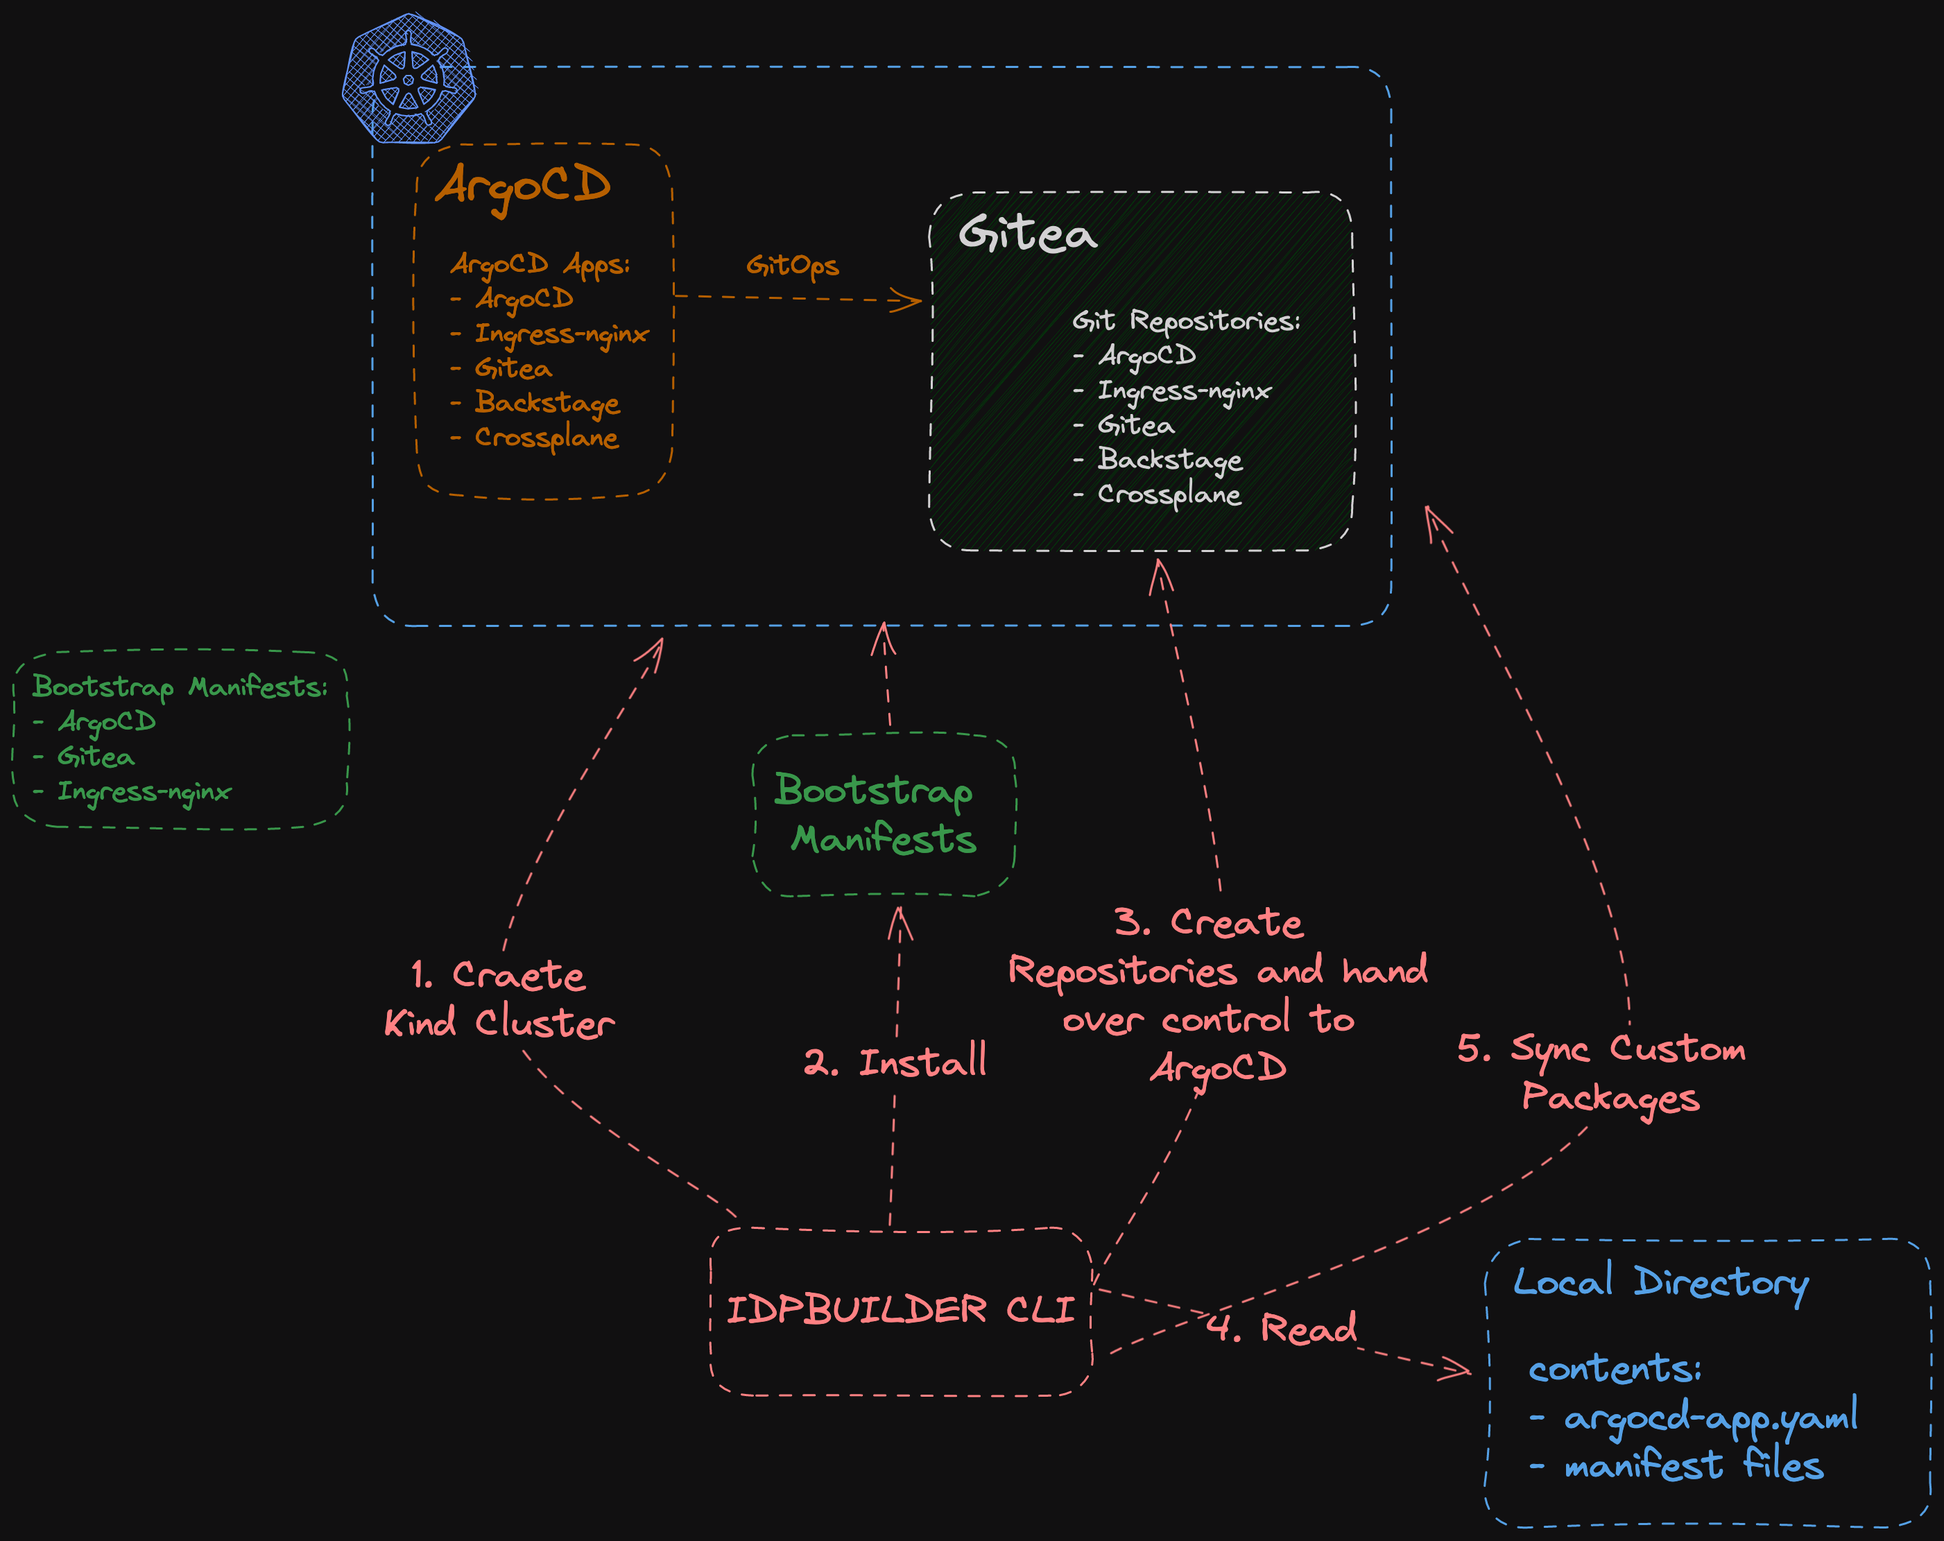
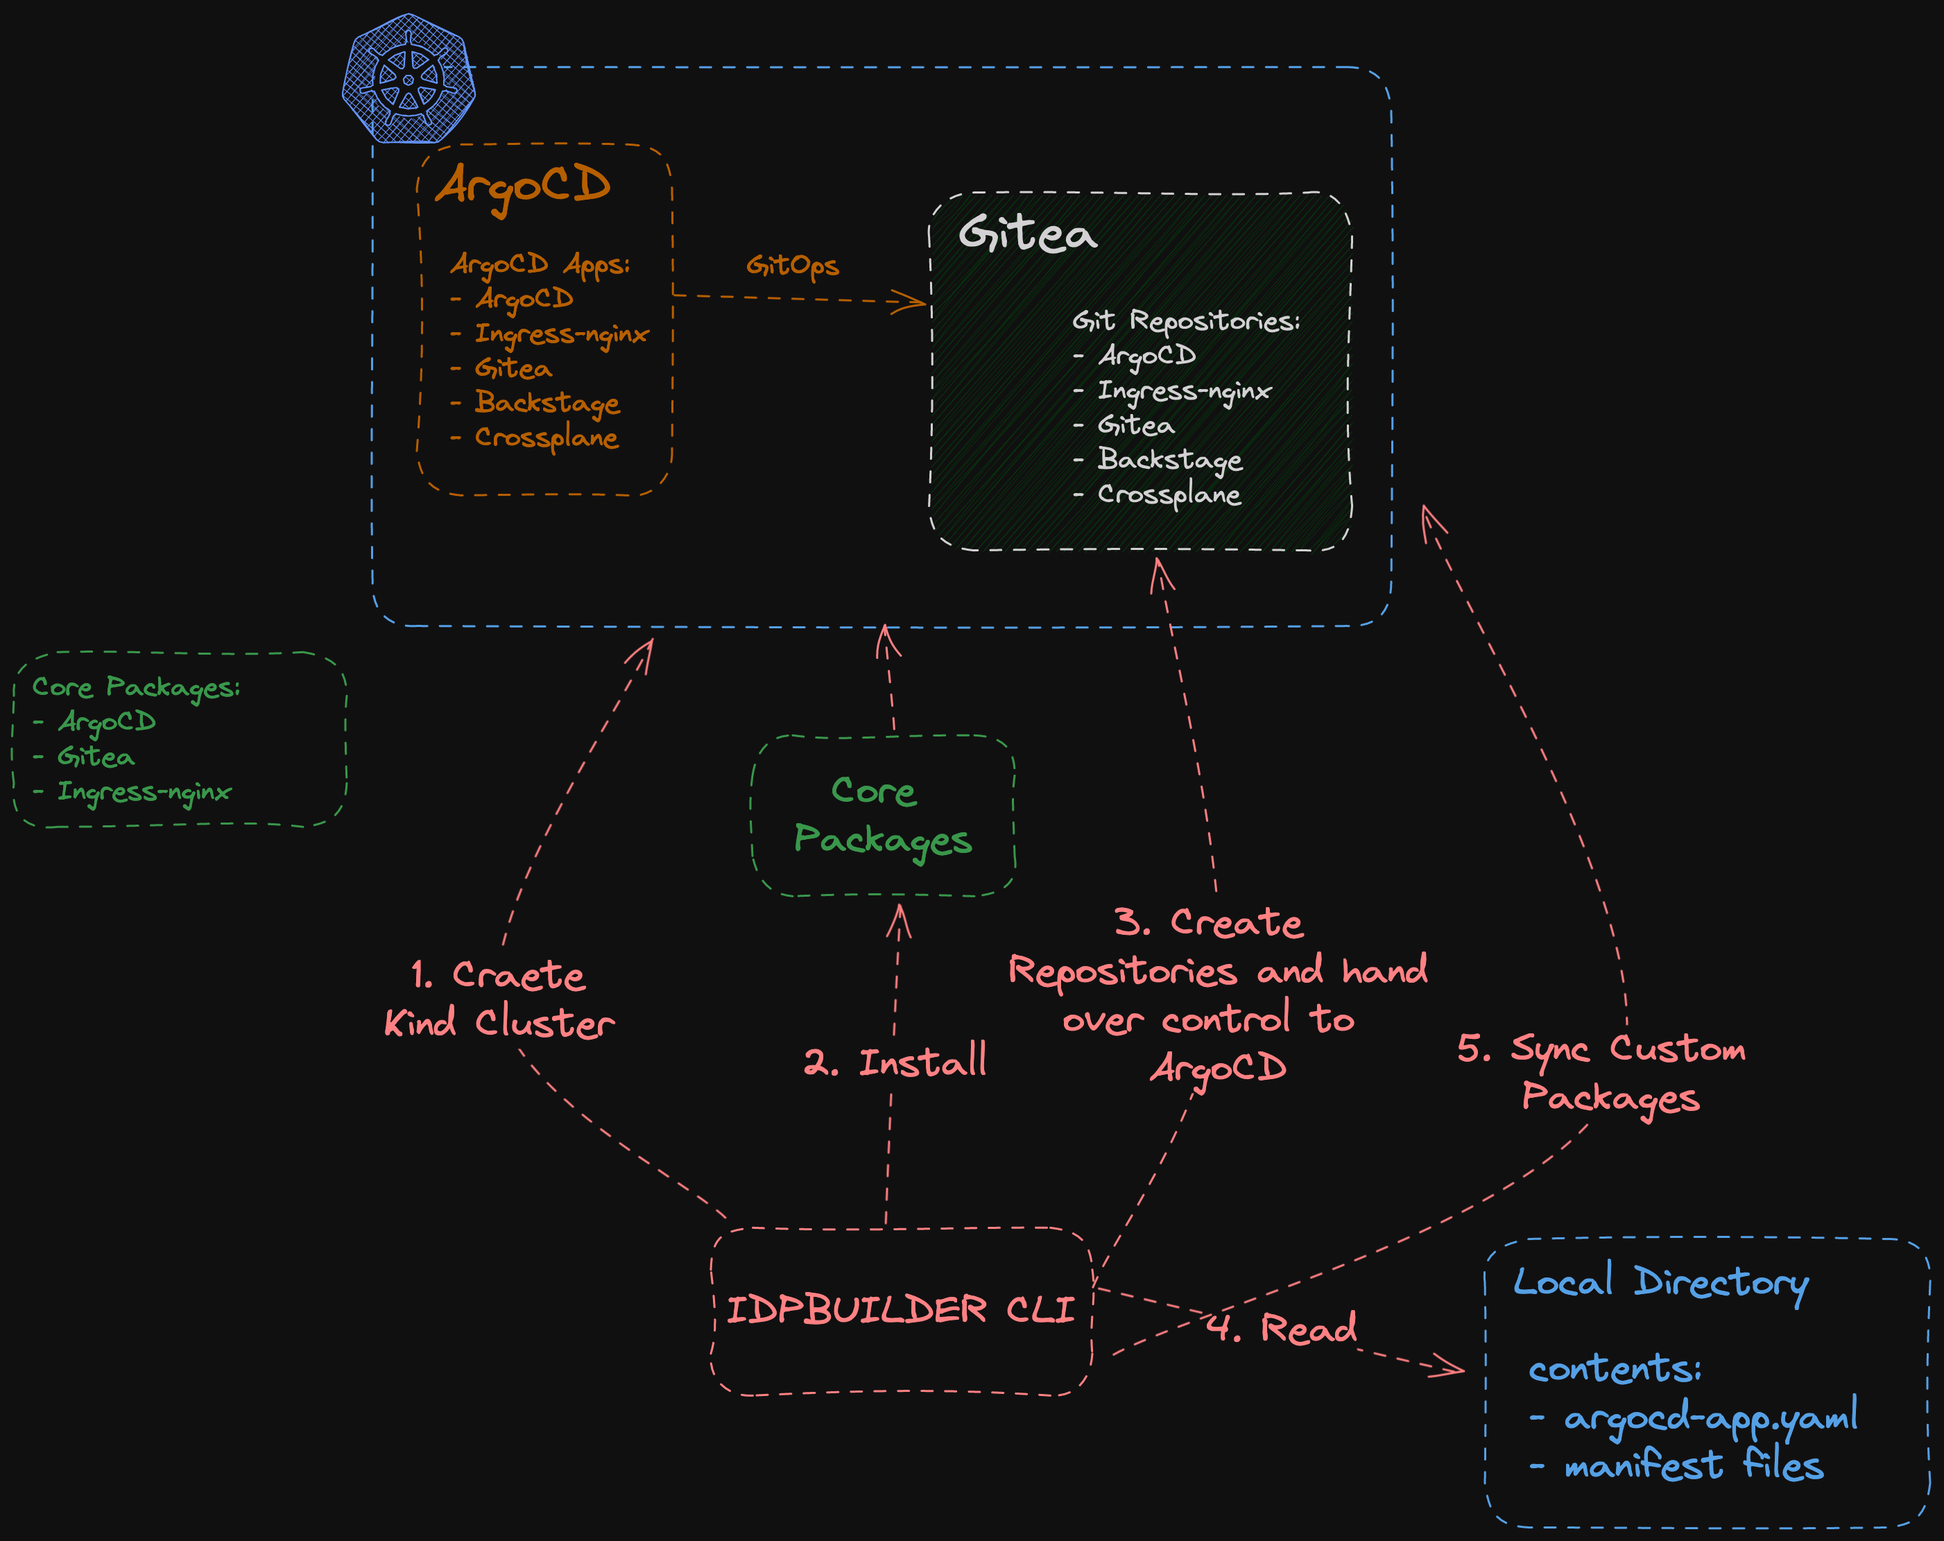
separate sections into readme and contributing

diff --git a/README.md b/README.md
@@ -7,14 +7,9 @@ Table of Contents
     * [Build](#build)
     * [Run](#run)
     * [Use](#use)
-  * [Developer notes](#developer-notes)
   * [Architecture](#architecture)
-    * [Kind cluster](#kind-cluster)
-    * [Localbuild](#localbuild)
-    * [Gitserver](#gitserver)
-    * [Embedded Argo Apps](#embedded-argo-apps)
-    * [Diagram](#diagram)
 * [Extending the IDP builder](#extending-the-idpbuilder)
+* [Developer notes](#developer-notes)
 
 # IDP Builder
 
@@ -60,12 +55,83 @@ containerdConfigPatches:
 
 ### Use
 
-Kubernetes: `kubectl get pods`
+#### GUI
 
-Argo: https://argocd.cnoe.localtest.me:8443/
+GUIs for core packages are available at the following addresses:  
 
-Backstage: https://backstage.cnoe.localtest.me:8443/
+* ArgoCD: https://argocd.cnoe.localtest.me:8443/
+* Backstage: https://backstage.cnoe.localtest.me:8443/
+* Gitea: https://gitea.cnoe.localtest.me:8443/
 
+
+## Architecture
+
+idpbuilder is made of two phases: CLI and Kubernetes controllers.
+
+![idpbuilder.png](docs/images/idpbuilder.png)
+
+### CLI
+
+When the idpbuilder binary is executed, it starts with the CLI phase.
+
+1. This is the phase where command flags are parsed and translated into relevant Go structs' fields. Most notably the [`LocalBuild`](https://github.com/cnoe-io/idpbuilder/blob/main/api/v1alpha1/localbuild_types.go) struct.
+2. Create a Kind cluster, then update the kubeconfig file.
+3. Once the kind cluster is started and relevant fields are populated, Kubernetes controllers are started:
+  *  `LocalbuildReconciler` responsible for bootstrapping the cluster with absolute necessary packages. Creates Custom Resources (CRs) and installs embedded manifests.
+  *  `RepositoryReconciler` responsible for creating and managing Gitea repository and repository contents.
+  *  `CustomPackageReconciler` responsible for managing custom packages.
+4. They are all managed by a single Kubernetes controller manager.
+5. Once controllers are started, CRs corresponding to these controllers are created. For example for Backstage, it creates a GitRepository CR and ArgoCD Application.
+6. CLI then waits for these CRs to be ready.
+
+### Controllers
+
+During this phase, controllers act on CRs created by the CLI phase. Resources such as Gitea repositories and ArgoCD applications are created. 
+
+#### LocalbuildReconciler
+
+`LocalbuildReconciler` bootstraps the cluster using embedded manifests. Embedded manifests are yaml files that are baked into the binary at compile time.
+1. Install core packages. They are essential services that are needed for the user experiences we want to enable:
+  * Gitea. This is the in-cluster Git server that hosts Git repositories.
+  * Ingress-nginx. This is necessary to expose services inside the cluster to the users.
+  * ArgoCD. This is used as the packaging mechanism. Its primary purpose is to deploy manifests from gitea repositories.
+2. Once they are installed, it creates `GitRepository` CRs for core packages. This CR represents the git repository on the Gitea server.
+3. Create ArgoCD applications for the apps. Point them to the Gitea repositories. From here on, ArgoCD manages the core packages.
+
+Once core packages are installed, it creates the other embedded applications: Backstage and Crossplane.
+1. Create `GitRepository` CRs for the apps.
+2. Create ArgoCD applications for the apps. Point them to the Gitea repositories.
+
+
+#### RepositoryReconciler
+
+`RepositoryReconciler` creates Gitea repositories.
+The content of the repositories can either be sourced from Embedded file system or local file system.
+
+#### CustomPackageReconciler
+
+`CustomPackageReconciler` parses the specified ArgoCD application files. If they specify repository URL with the scheme `cnoe://`,
+it creates `GitRepository` CR with source specified as local, then creates ArgoCD application with the repository URL replaced.
+
+For example, if an ArgoCD application is specified as the following.
+
+```yaml
+apiVersion: argoproj.io/v1alpha1
+kind: Application
+spec:
+  source:
+    repoURL: cnoe://busybox
+```
+
+Then, the actual object created is this.
+
+```yaml
+apiVersion: argoproj.io/v1alpha1
+kind: Application
+spec:
+  source:
+    repoURL: http://my-gitea-http.gitea.svc.cluster.local:3000/giteaAdmin/idpbuilder-localdev-my-app-busybox.git
+```
 
 ## Developer notes
 
@@ -85,47 +151,6 @@ apiVersion: kind.x-k8s.io/v1alpha4
 Next, import it `./idpbuilder create --kindConfig <path to the config file>`
 
 
-## Architecture
-
-The IDP builder binary is primarily composed of a wrapper around a [Kubebuilder](https://kubebuilder.io) based operator and associated type called localbuild. See: [api/v1alpha1/localbuild_types.go](https://github.com/cnoe-io/idpbuilder/blob/4b0f8ecdd7266083373da51d5add1bca73e05a33/api/v1alpha1/localbuild_types.go#L28-L66) and [pkg/controllers/localbuild/controller.go](https://github.com/cnoe-io/idpbuilder/blob/4b0f8ecdd7266083373da51d5add1bca73e05a33/pkg/controllers/localbuild/controller.go#L54-L84)
-
-However it starts out by creating a Kind cluster to register the CRD and controller for localbuild and to host the resources created by it which in turn create the basis for our IDP. You can see the steps taken to install the dependencies and stand up the localbuild controller in the CLI codebase here: [pkg/build/build.go](https://github.com/cnoe-io/idpbuilder/blob/4b0f8ecdd7266083373da51d5add1bca73e05a33/pkg/build/build.go#L95-L131)
-
-### Kind Cluster
-The Kind cluster is created using the Kind library and only requires Docker be installed on the host. See: [ReconcileKindCluster](https://github.com/cnoe-io/idpbuilder/blob/4b0f8ecdd7266083373da51d5add1bca73e05a33/pkg/build/build.go#L39-L59)
-
-### Localbuild
-
-Localbuild's reconciler steps through a number of subreconcilers to create all of the IDP components. See: [Subreconcilers](https://github.com/cnoe-io/idpbuilder/blob/4b0f8ecdd7266083373da51d5add1bca73e05a33/pkg/controllers/localbuild/controller.go#L69-L74)
-
-The subreconcilers currently include:
-
-* [ReconcileProjectNamespace:](https://github.com/cnoe-io/idpbuilder/blob/4b0f8ecdd7266083373da51d5add1bca73e05a33/pkg/controllers/localbuild/controller.go#L102C32-L102C57) Creates a namespace for the Localbuild objects
-* [ReconcileArgo:](https://github.com/cnoe-io/idpbuilder/blob/4b0f8ecdd7266083373da51d5add1bca73e05a33/pkg/controllers/localbuild/argo.go#L51) Installs ArgoCD
-* [ReconcileEmbeddedGitServer:](https://github.com/cnoe-io/idpbuilder/blob/4b0f8ecdd7266083373da51d5add1bca73e05a33/pkg/controllers/localbuild/controller.go#L125) Installs a "gitserver" which is another Kubebuilder Operate in this project See: [api/v1alpha1/gitserver_types.go](https://github.com/cnoe-io/idpbuilder/blob/4b0f8ecdd7266083373da51d5add1bca73e05a33/api/v1alpha1/gitserver_types.go)
-* [ReconcileArgoApps](https://github.com/cnoe-io/idpbuilder/blob/4b0f8ecdd7266083373da51d5add1bca73e05a33/pkg/controllers/localbuild/controller.go#L172) Steps through all the "Embedded" Argo Apps and installs them. See: [Embedded Apps](https://github.com/cnoe-io/idpbuilder/blob/4b0f8ecdd7266083373da51d5add1bca73e05a33/pkg/apps/resources.go#L20-L32)
-
-### GitServer
-
-Gitserver is essentially a fileserver for the Argo apps that are packaged within this IDP builder. As you might expect, it serves the files used by the ArgoCD apps using the git protocol. You can see the container image that contains these files get built here in the [GitServer Reconciler](https://github.com/cnoe-io/idpbuilder/blob/4b0f8ecdd7266083373da51d5add1bca73e05a33/pkg/controllers/gitserver/image.go#L44-L60)
-
-### Embedded Argo Apps
-
-The embedded Argo apps are created by the Localbuild reconciler See: [Argo Apps](https://github.com/cnoe-io/idpbuilder/blob/4b0f8ecdd7266083373da51d5add1bca73e05a33/pkg/controllers/localbuild/controller.go#L210-L243) Then they are picked up by the ArgoCD operator which in turn connects to the GitServer to perform their gitops deployment.
-
-The resources served by the GitServer are contained within this binary here: [pkg/apps/srv](https://github.com/cnoe-io/idpbuilder/blob/4b0f8ecdd7266083373da51d5add1bca73e05a33/pkg/apps/srv/)
-
-They include:
-* [ArgoCD Ingress:](https://github.com/cnoe-io/idpbuilder/blob/4b0f8ecdd7266083373da51d5add1bca73e05a33/pkg/apps/srv/argocd/ingress.yaml) which makes the ArgoCD interface available.
-* [Backstage:](https://github.com/cnoe-io/idpbuilder/blob/4b0f8ecdd7266083373da51d5add1bca73e05a33/pkg/apps/srv/backstage/install.yaml) which intalls the Backstage Resources.
-* [Crossplane:](https://github.com/cnoe-io/idpbuilder/blob/4b0f8ecdd7266083373da51d5add1bca73e05a33/pkg/apps/srv/crossplane/crossplane.yaml) which uses the Crossplane Helm chart to install Crossplane.
-* [Nginx Ingress Controller:](https://github.com/cnoe-io/idpbuilder/blob/4b0f8ecdd7266083373da51d5add1bca73e05a33/pkg/apps/srv/nginx-ingress/ingress-nginx.yaml) which makes nginx ingresses available on the cluster.
-
-As you can imagine each of these apps are are deployed by ArgoCD to the Kind cluster created by CLI. The Argo apps can be inspected with kubectl in the `argocd` namespace and the resources they create can be seen in their corresponding namespaces (`backstage` and `crossplane`)
-
-### Diagram
-
-[Excalidraw diagram here:](https://excalidraw.com/#json=MNOQf_OeLtKYe_Y80Bt2l,AP-ftLAwZoDWjp2yudnMKA)
-
 ## Extending the IDP builder
-In the future we hope to allow for a pluggable interface to allow for extending the IDP builder with additional argo apps. For now you simply need to add additional apps in the [Embedded Apps](https://github.com/cnoe-io/idpbuilder/blob/4b0f8ecdd7266083373da51d5add1bca73e05a33/pkg/apps/resources.go#L20-L32) and also add the resources they will deploy in the `srv` folder: [pkg/apps/srv](https://github.com/cnoe-io/idpbuilder/blob/4b0f8ecdd7266083373da51d5add1bca73e05a33/pkg/apps/srv/)
+
+We are actively working to include more patterns and examples of extending idpbuilder to get started easily.

diff --git a/CONTRIBUTING.md b/CONTRIBUTING.md
@@ -1,7 +1,6 @@
 # Contributing guide
 
 Welcome to the project, and thanks for considering contributing to this project. 
-This document should answer many questions you may have about contributing to this project.
 
 If you have any questions or need clarifications on topics covered here, please feel free to reach out to us on the [#cnoe-interest](https://cloud-native.slack.com/archives/C05TN9WFN5S) channel on CNCF Slack.
 
@@ -10,13 +9,14 @@ If you have any questions or need clarifications on topics covered here, please 
 To get started with the project on your machine, you need to install the following tools:
 1. Go 1.21+. See [this official guide](https://go.dev/doc/install) from Go authors.
 2. Make. You can install it through a package manager on your system. E.g. Install `build-essential` for Ubuntu systems.
-3. Docker. Similar to Make, you can install it through your package manager.
+3. Docker. Similar to Make, you can install it through your package manager or [Docker Desktop](https://www.docker.com/products/docker-desktop/).
 
 Once required tools are installed, clone this repository. `git clone https://github.com/cnoe-io/idpbuilder.git`.
 
 Then change your current working directory to the repository root. e.g. `cd idpbuilder`.
 
 All subsequent commands described in this document assumes they are executed from the repository root.
+Ensure your docker daemon is running and available. e.g. `docker images` command should not error out.
 
 ## Building from the main branch
 
@@ -32,21 +32,20 @@ All subsequent commands described in this document assumes they are executed fro
     go vet ./...
     go build -o idpbuilder main.go  
     ```
-3. Once build finishes, you should have an executable file called `idbuilder` in the root of the repository.
-4. The file should be ready to use. Execute the file to confirm. `./idpbuilder --help`
+3. Once build finishes, you should have an executable file called `idpbuilder` in the root of the repository.
+4. The file is ready to use. Execute this command to confirm: `./idpbuilder --help`
 
 
 ### Testing basic functionalities
 
-To test the very basic functionality of idpbuilder, Run the following command: `./idbuilder create`
+To test the very basic functionality of idpbuilder, Run the following command: `./idpbuilder create`
 
-This command creates the following resources on your machine. 
+This command creates a kind cluster, expose associated endpoints to your local machine using an ingress controller and deploy the following packages:
 
 1. [Kind](https://kind.sigs.k8s.io/) cluster.
 2. [ArgoCD](https://argo-cd.readthedocs.io/en/stable/) resources.
 3. [Gitea](https://about.gitea.com/) resources.
-4. [Crossplane](https://www.crossplane.io/) deployment. No providers.
-5. [Backstage](https://backstage.io/) resources.
+4. [Backstage](https://backstage.io/) resources.
 
 They are deployed as ArgoCD Applications with the Gitea repositories set as their sources. 
 
@@ -69,72 +68,3 @@ All ArgoCD applications should be synced and healthy. You can check them in the 
 ```
 kubectl get application -n argocd
 ```
-
-## idpbuilder Overview
-
-idpbuilder is made of two phases: CLI and controllers.
-
-### CLI
-
-During this phase: 
-1. This is the phase where command flags are parsed and translated into relevant Go structs' fields. Most notably the [`LocalBuild`](https://github.com/cnoe-io/idpbuilder/blob/main/api/v1alpha1/localbuild_types.go) struct.
-2. Create a Kind cluster, then update the kubeconfig file.
-3. Once the kind cluster is started and relevant fields are populated, Kubernetes controllers are started:
-    *  `LocalbuildReconciler` responsible for bootstrapping the cluster with absolute necessary packages. Creates Custom Resources (CRs) and installs embedded manifests.
-    *  `RepositoryReconciler` responsible for creating and managing Gitea repository and repository contents.
-    *  `CustomPackageReconciler` responsible for managing custom packages.  
-4. They are all managed by a single Kubernetes controller manager.
-5. Once controllers are started, CRs corresponding to these controllers are created. For example for Backstage, it creates a GitRepository CR and ArgoCD Application.
-6. CLI then waits for these CRs to be ready.
-
-### Controllers
-
-During this phase, controllers act on CRs created by the CLI phase.
-
-#### LocalbuildReconciler
-
-`LocalbuildReconciler` bootstraps the cluster using embedded manifests. Embedded manifests are yaml files that are baked into the binary at compile time.
-1. Install Bootstrap apps. They are essential services that are needed for the user experiences we want to enable:
-    * Gitea. This is the in-cluster Git server that hosts Git repositories.
-    * Ingress-nginx. This is necessary to expose services inside the cluster to the users.
-    * ArgoCD. This is used as the packaging mechanism. Its primary purpose is to deploy manifests from gitea repositories. 
-2. Once they are installed, create `GitRepository` CRs for bootstrap apps.
-3. Create ArgoCD applications for the apps. Point them to the Gitea repositories. From here on, ArgoCD manages the bootstrap apps.
-
-Once bootstrap apps are installed, it creates the other embedded applications: Backstage and Crossplane.
-1. Create `GitRepository` CRs for the apps.
-2. Create ArgoCD applications for the apps.
-
-
-#### RepositoryReconciler
-
-`RepositoryReconciler` creates Gitea repositories.
-The content of the repositories can either be sourced from Embedded file system or local file system.
-
-#### CustomPackageReconciler
-
-`CustomPackageReconciler` parses the specified ArgoCD application files. If they specify repository URL with the scheme `cnoe://`,
-it creates `GitRepository` CR with source specified as local, then creates ArgoCD application with the repository URL replaced.
-
-For example, if an ArgoCD application is specified as the following.
-
-```yaml
-apiVersion: argoproj.io/v1alpha1
-kind: Application
-spec:
-  source:
-    repoURL: cnoe://busybox
-```
-
-Then, the actual object created is this.
-
-```yaml
-apiVersion: argoproj.io/v1alpha1
-kind: Application
-spec:
-  source:
-    repoURL: http://my-gitea-http.gitea.svc.cluster.local:3000/giteaAdmin/idpbuilder-localdev-my-app-busybox.git
-```
-
-
-![idpbuilder.png](docs/images/idpbuilder.png)
